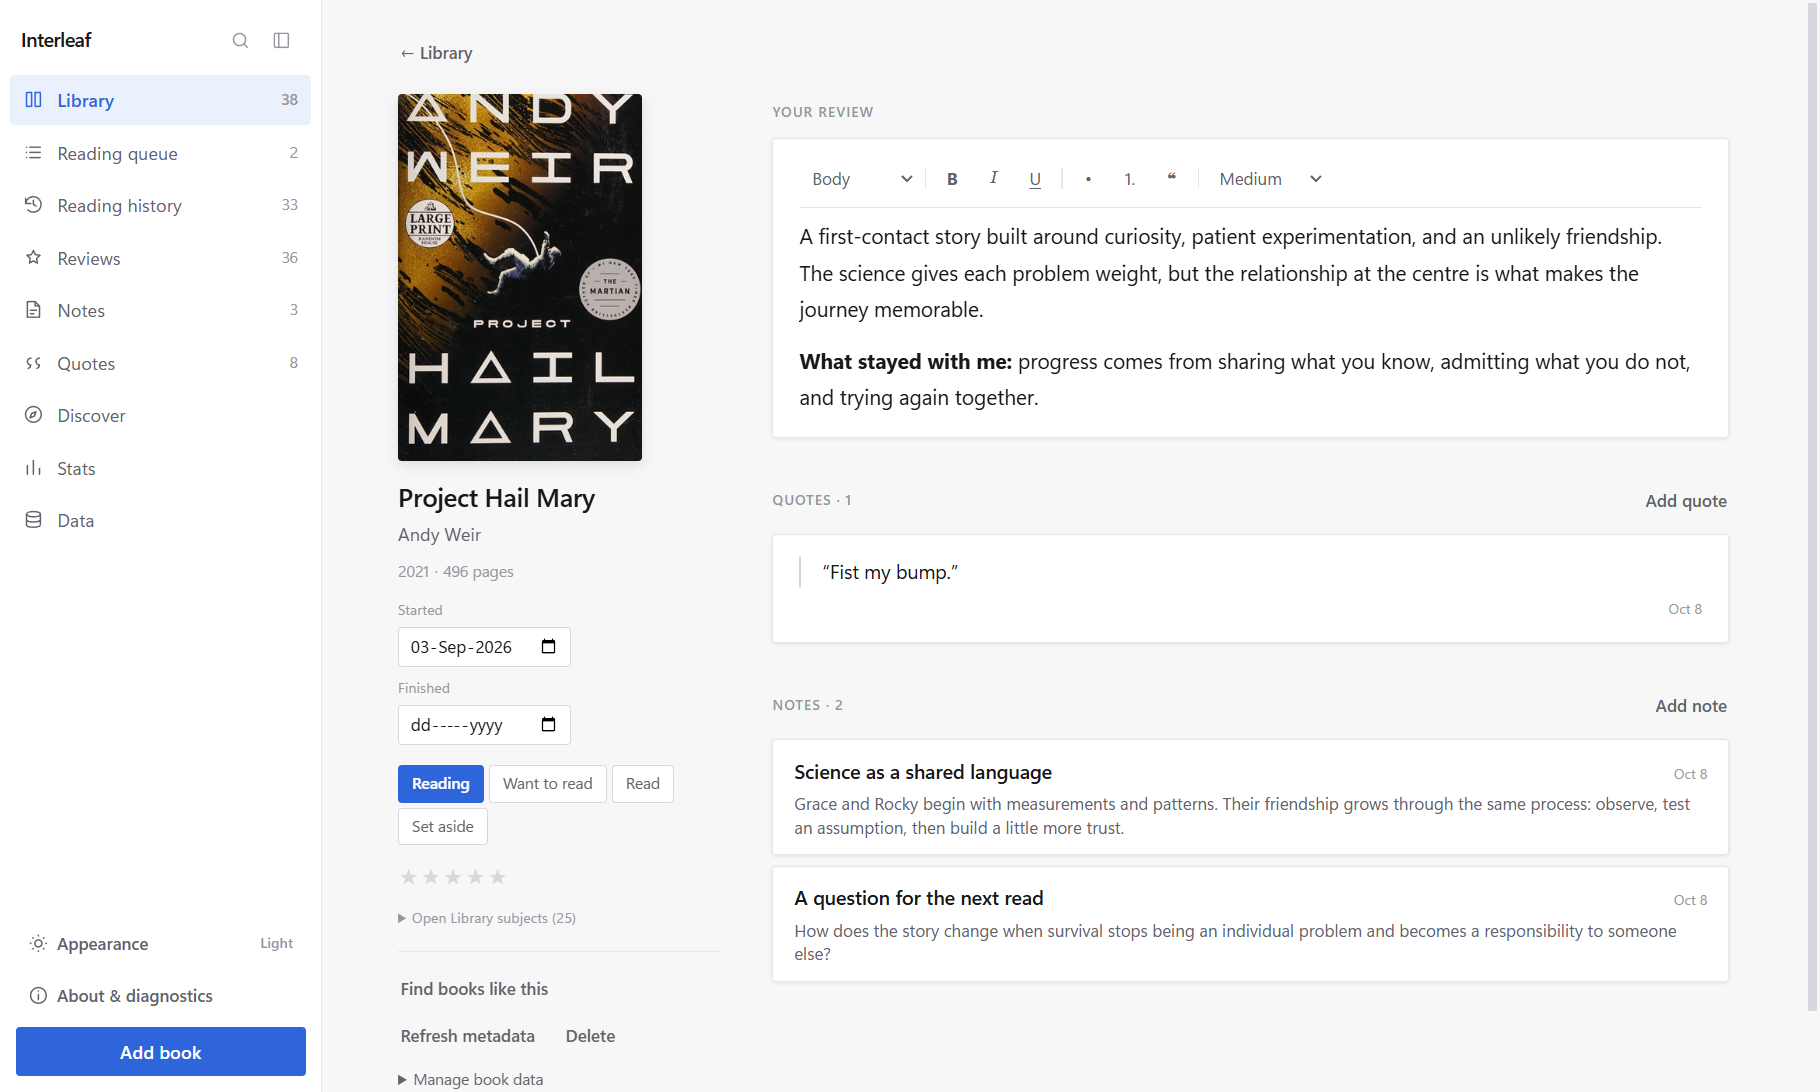
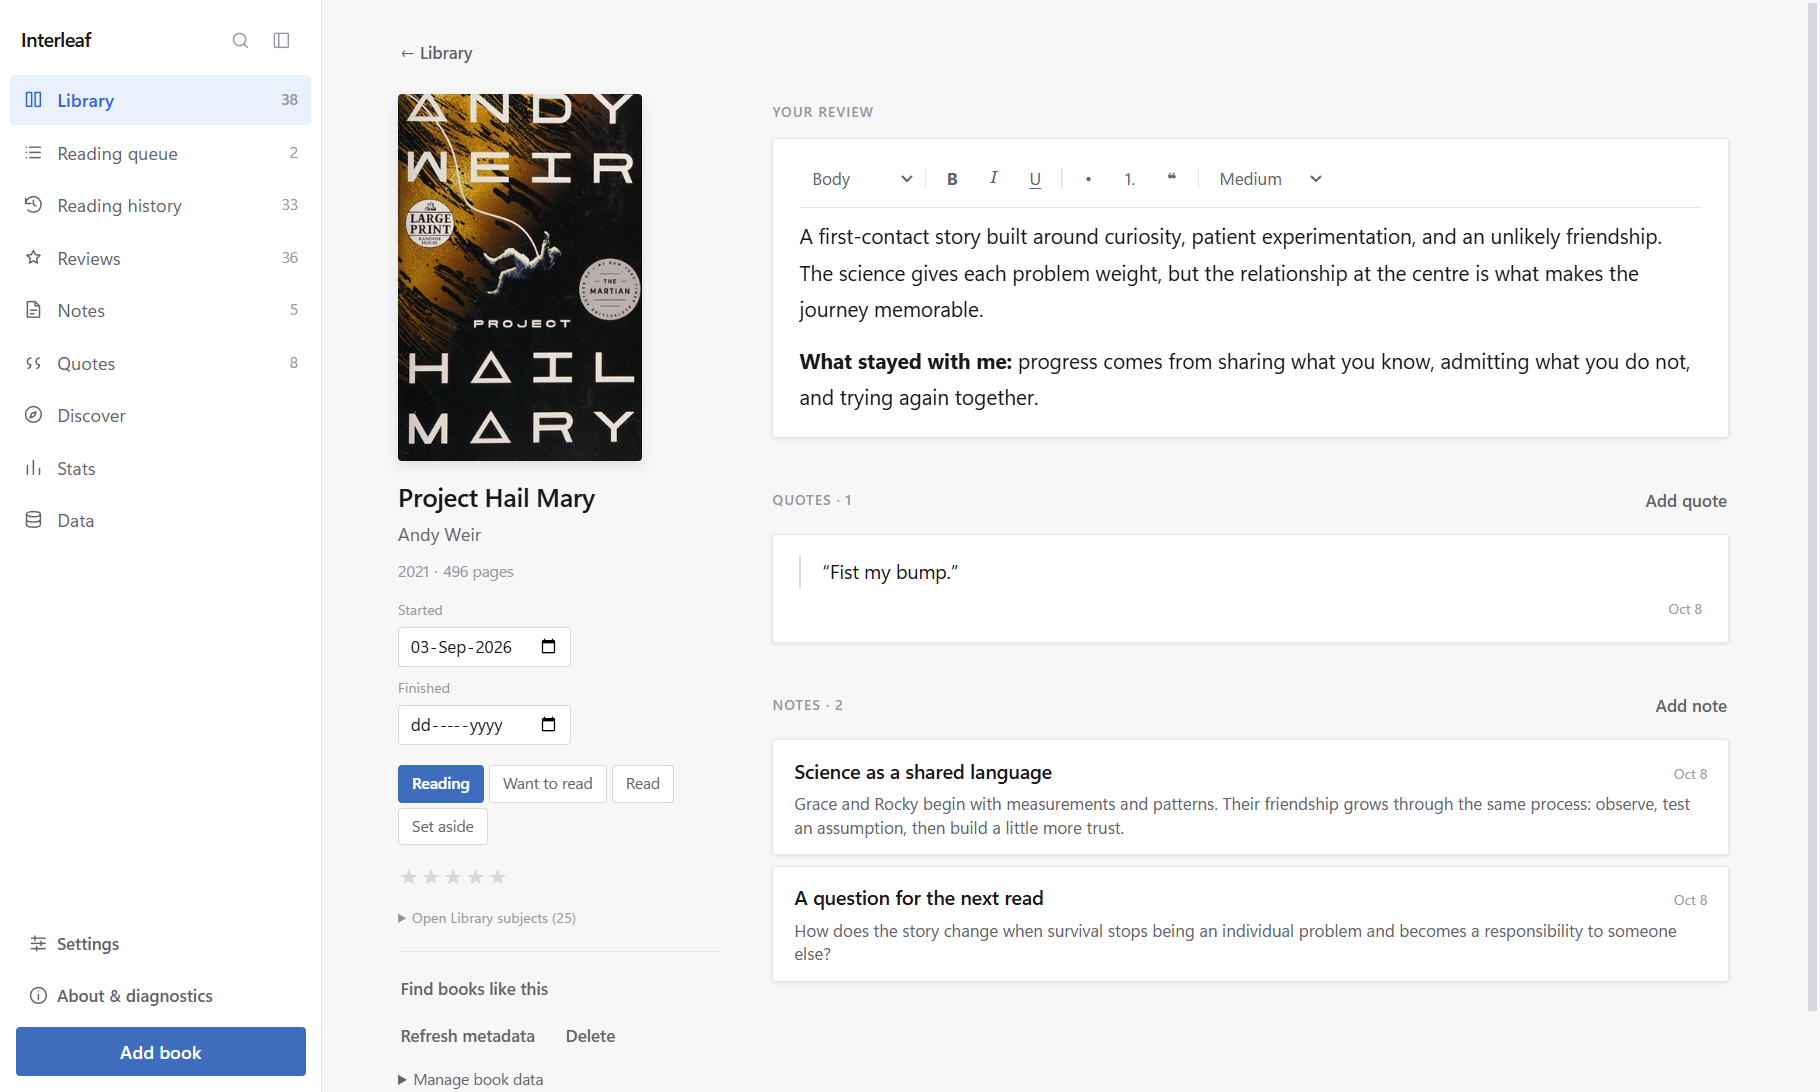
Streamline the README and refresh app screenshots

Changed region(s): [[0.0, 0.9341, 0.1846, 0.9963], [0.2154, 0.685, 0.2769, 0.7473], [0.0308, 0.8407, 0.0923, 0.8718]]

diff --git a/README.md b/README.md
@@ -2,44 +2,35 @@
 
 [![CI](https://github.com/sometabs/interleaf/actions/workflows/ci.yml/badge.svg)](https://github.com/sometabs/interleaf/actions/workflows/ci.yml)
 
-A local-first desktop reading journal. Keep a shelf, arrange what to read next, write reviews and
-notes, collect the passages worth keeping, and get recommendations ranked against your own library.
+A local-first desktop reading journal for Windows and Linux. Arrange your books, keep reviews,
+notes and quotes, and discover what to read next based on your own library.
 
-Your library and writing are stored on your machine. Internet access is needed for Open Library
-searches, metadata refreshes, availability checks and the optional model download. Covers
-are downloaded and cached as needed when books are added or displayed. Recommendation ranking
-itself runs locally.
+## Interleaf in use
 
-<img src="docs/screenshots/01-library.png" width="700" alt="The library showing Reading and Want to read books with their covers">
+**Bookshelf.** Name your shelves, arrange spines and horizontal stacks, and turn a book to show
+its cover. Jump to a shelf by name or highlight a book where it sits.
 
-**Discover** ranks cached Open Library books against your shelf and says which of your books each
-one resembles. Hybrid combines local keyword and meaning-based rankings over the same cached
-candidate pool, with keyword-only matching as the automatic fallback.
+<img src="docs/screenshots/01-shelf.png" width="800" alt="Two named shelves with upright books, a horizontal stack, and the Project Hail Mary cover facing out">
 
-<img src="docs/screenshots/03-discover.png" width="700" alt="Discover with Hybrid ranking, because-you-liked explanations and Open Library subject chips">
+**Reading journal.** See a book's rating, reading dates, review, quotes and notes on one page.
 
-Explore recommendations as a tree. Zoom and pan to see how suggestions relate to one another.
-This view shows the Wuthering Heights branch at 80% zoom.
+<img src="docs/screenshots/02-book.png" width="800" alt="Project Hail Mary with its review, a saved quote, and two reading notes">
 
-<img src="docs/screenshots/04-tree.png" width="700" alt="Hybrid recommendation tree showing Wuthering Heights above three branching paths at 80% zoom">
+**Discover.** Browse recommendations as cards or a similarity tree, or find books like a specific
+title in your library.
 
-The book page puts reading details beside the review, quotes and notes. This example shows a
-reading journal for _Project Hail Mary_.
+<img src="docs/screenshots/04-tree.png" width="800" alt="Discover's recommendation tree branching out from Wuthering Heights">
 
-<img src="docs/screenshots/02-book.png" width="700" alt="Project Hail Mary with a full review, a saved quote and two reading notes">
+## What you can do
 
-Press `Ctrl + K` to search your books, reviews, notes and quotes or run a command.
-
-<img src="docs/screenshots/05-palette.png" width="700" alt="Searching for Hail Mary in the command palette returns Project Hail Mary and its written review">
-
-Stats bring your reading progress, ratings and journal activity together in one local overview.
-
-<img src="docs/screenshots/06-stats.png" width="700" alt="Local reading statistics with all-time totals, yearly progress, library status and ratings">
+- Add books from Open Library or enter them manually. Choose Grid or Shelf in Settings.
+- Order your reading queue, revisit finished books in reading history, and track your progress in Stats.
+- Import Calibre or Kindle highlights with duplicate detection. Kindle clippings need English headers.
+- Press `Ctrl + K` to search your books, reviews, notes and quotes or run a command.
 
 ## Install
 
-To build your own installer, you'll need
-[Node 22.12 or newer](https://nodejs.org) and Git.
+To build from source, install [Node.js 22.12 or newer](https://nodejs.org) and Git.
 
 ```bash
 git clone https://github.com/sometabs/interleaf.git
@@ -47,164 +38,23 @@ cd interleaf
 npm install
 ```
 
-Then build the installer:
+Run `npm run build:win` for a Windows installer or `npm run build:linux` for a Linux AppImage and
+`.deb`. Build on the target operating system and find the result in `dist/`. Run `npm run dev`
+to try the app from source with a separate `Interleaf Dev` library.
 
-```bash
-npm run build:win
-```
+## Your data and offline use
 
-It lands in `dist/`; run it to install the app normally.
+Your library, writing, search, and statistics work offline. Book lookup, metadata refresh, and
+fetching new Discover candidates use Open Library. Interleaf ranks cached candidates locally.
+Optional **Advanced recommendations** adds meaning-based matching and may download a model on
+first use.
 
-**Platforms.** Packaging is configured for x64 Windows and Linux. On Linux, `npm run build:linux`
-produces an AppImage and a `.deb`. Build on the target operating system; macOS packaging is not
-configured.
+**Data → Export library** saves the database, including your shelf layout, along with book covers
+and a readable Markdown copy. **Import** restores the library from the exported database.
+Interleaf also keeps an automatic recovery copy for startup recovery.
 
-To skip the installer and just run the app from source:
-
-```bash
-npm run dev
-```
-
-## What it does
-
-**Your shelf.** Search Open Library by title, author or ISBN, choose the result you want, and keep its
-available cover, edition identity and subjects. Page counts use Open Library's work-level median,
-falling back to the selected edition's count when available. Nothing found, or offline? Add the book
-manually. Each book is marked _want to read_, _reading_, _read_ or _set aside_, and can be rated out
-of five. Books without usable cover art receive a generated clothbound cover instead of a blank box.
-The book page shows reading duration when both start and finish dates are set. This counts elapsed
-calendar days, including breaks, not active reading time.
-
-**Library layout.** Choose **Grid** or **Shelf** in **Settings**. In Shelf, drag books to arrange
-them along or between rows, and use **Add shelf** to make more room.
-
-**Reading queue.** Every _want to read_ book appears in one ordered list. Drag books or use the
-arrow controls to put them in the order you intend to read them.
-
-**Reading history.** Finished books appear newest first, grouped by finish month and year, with
-their ratings and reading duration when available. Books without a finish date are listed last
-under Date unknown. Open a row to view or edit that book.
-
-**Reviews.** Books appear in Reviews as soon as you rate them or write a review. Open a row to
-write or edit the review and change the star rating. Review text saves automatically from either
-the book page or the review editor.
-
-**Notes.** What you thought. Attach them to a book, or write one that belongs to nowhere in
-particular. Each can carry a label, and long ones open as a full page. Search your notes or narrow
-the list by book or label. The book picker only lists books with notes.
-
-**Quotes.** What the book said. They get their own section on each book and their own searchable
-screen, filterable by book or author. The pickers only list books and authors with saved quotes.
-Every quote belongs to a book.
-
-**Search.** One box searches book titles and authors, plus the titles and text of reviews, notes and
-quotes. It does not search the contents of the books themselves.
-
-**Discover.** Recommendations built from your own shelf: Interleaf uses books you finished and rated
-4 or 5 stars to search Open Library using their subjects and author names, then ranks the cached
-pool locally using subjects and descriptions. Finished 3-star books provide a weaker positive
-signal; 1–2-star ratings count against similar candidates. Hybrid combines TF-IDF keyword and
-semantic rankings using reciprocal rank fusion. Turn on **Advanced recommendations** in **Settings**
-to download a roughly 35 MB BGE Small model from Hugging Face after confirmation. Matching then runs locally.
-Until enabled, or if the model fails, keyword-only results are shown automatically. There is no
-ranking-mode selector. Suggestions identify a library book behind
-the match. Your reviews, notes and quotes are not sent to either service.
-
-**Grid or tree.** Choose **Discover layout** in **Settings** to browse cards or a similarity tree.
-Candidates remain cached for offline ranking, and can be dismissed or added to your shelf.
-
-**Books like this one.** Any book on your shelf has a **Find books like this** button, which ranks the
-cached pool against that book alone. You can use those results immediately or run a targeted online
-search for more candidates.
-
-**Stats.** See all-time books and pages read, completed books by month for a selected year, library status,
-ratings, top authors, and review, note and quote totals. Statistics are calculated locally from the
-library you already maintain, including manually added books. Page totals count only read books
-with a known page count. The year selector defaults to the current year and includes earlier years
-with completed books. Choose All time for totals across all read books and completions by year.
-Charts require a finished date; undated read books still count in all-time totals.
-
-**Highlights from Calibre or Kindle.** Read a Calibre annotations export or Kindle My Clippings file
-straight into Interleaf, preserving dates when they can be parsed. Match each source book to your
-library once and Interleaf remembers it; re-importing the same highlights skips duplicates.
-Kindle import currently recognises English clippings headers and skips bookmarks and standalone
-notes. Nothing touches the source library or device.
-
-**Backups and exports.** **Export library** writes the database, referenced covers, and a readable
-Markdown copy to a folder you choose. **Import** verifies that copy and restarts
-Interleaf on the restored library.
-
-Interleaf takes its first automatic backup after a saved library change. Further changes are
-backed up once the 24-hour window ends, or at the next launch if it was closed. Interleaf keeps one
-verified copy of the database and its covers in the `backups` folder beside the database. After a
-successful manual restore, Interleaf refreshes that copy. If the database is missing or damaged at
-startup, Interleaf offers to restore the automatic backup and preserves any damaged database.
-Library exports and automatic backups include your shelf layout. UI preferences, the downloaded
-model, and the embedding cache are stored separately.
-
-**Your data, in plain text.** The Markdown in that folder is yours to read in any editor or keep in
-Git: each book with its status and rating, its review, its notes and its quotes, each dated. It is
-written for reading rather than for restoring, which the database beside it does.
-
-**Data controls.** Delete individual entries from their own screens, remove one book's notes or
-quotes, clear whole categories, reset the recommendation cache, remove the downloaded embedding
-model, and undo **Not for me** dismissals.
-
-## Getting around
-
-Open **Settings** in the sidebar to choose Light, Dark or System. System follows your operating
-system's colour preference. Motion is on by default and can be turned off here.
-
-| key        | action                                     |
-| ---------- | ------------------------------------------ |
-| `Ctrl + K` | Search your library or run common commands |
-| `Ctrl + N` | Add a book                                 |
-| `Esc`      | Back one step                              |
-
-The command palette can open the main screens, add a book or note, and back up your library. It
-shows the keyboard shortcut next to commands that have one.
-
-Reviews and edits to existing notes and quotes save shortly after you stop typing. A new note or
-quote remains a draft until you press **Done**; an empty draft is discarded.
-
-## Where your data lives
-
-- **Windows**: `%APPDATA%\Interleaf\`
-- **Linux**: `$XDG_CONFIG_HOME/Interleaf/`, or `~/.config/Interleaf/` by default
-
-Runs from source and preview builds use a separate `Interleaf Dev` directory under the same
-platform-specific application-data folder, so development cannot modify the installed library.
-
-That folder holds `interleaf.db` and the `covers/` directory, plus the local model and embedding cache
-after Hybrid is enabled. Use **Data → Export library** for a portable library backup. Do not treat
-`covers/` as disposable: manually chosen covers may not be recoverable from Open Library.
-
-## Notes and limits
-
-Book data comes from [Open Library](https://openlibrary.org). When it is slow or unavailable,
-Interleaf distinguishes that from an empty search, allows manual book entry, and keeps cached
-recommendations available. Refresh metadata from a book's page or use **Data → Book metadata**
-to refresh the library. Both use the saved Open Library Work ID to update subjects and descriptions
-and fill missing page counts and publication years, while preserving saved titles, authors,
-edition IDs, ISBNs, and covers.
-
-An online Discover search makes up to eight catalogue queries, spaced to respect Open Library's
-request rate. It can take a minute or longer depending on response times and retries. Hybrid and its
-keyword fallback use the same cached candidate pool, without extra catalogue requests for ranking.
-Meaning-based matching uses an English-focused
-embedding model, so non-English metadata may rank less reliably.
-
-## Development
-
-The test suite runs in two environments. The database, Open Library client, importers and
-recommenders are tested in Node. React components are mounted in jsdom, a simulated browser, so UI
-tests click real controls and type into real editors.
-
-| command             | what it checks                     |
-| ------------------- | ---------------------------------- |
-| `npm test`          | the suite above                    |
-| `npm run lint`      | ESLint, including formatting rules |
-| `npm run typecheck` | `tsc` over main, preload and web   |
+See [Library data and recommendations](docs/library-details.md) for data locations, backup
+timing, and how recommendations work.
 
 ## License
 

diff --git a/docs/library-details.md b/docs/library-details.md
@@ -1,0 +1,61 @@
+# Library data and recommendations
+
+For installation and a tour of Interleaf, see the [README](../README.md).
+
+## Book metadata
+
+When you add an Open Library result, Interleaf saves its displayed title, author, cover, and
+edition identifiers where available. The initial page count uses the work-level median and falls
+back to the selected edition's page count.
+
+Metadata refresh uses the saved Open Library Work ID to update subjects and descriptions and fill
+missing page counts and publication years. You can refresh one book or use **Data → Book
+metadata** for the library.
+
+## Discover
+
+An online Discover search uses subjects and author names from finished books rated four or five
+stars. **Find books like this** uses the selected book alone. A search plans up to eight catalogue
+queries. Interleaf runs catalogue requests one at a time with at least 1.1 seconds between starts
+and can retry once on `429` or `503`.
+
+Ranking uses subjects and descriptions from the local candidate cache. Finished three-star books
+give a weaker positive signal, and one- or two-star ratings can push down similar results. Keyword
+ranking uses TF-IDF and cosine similarity. **Advanced recommendations** combines that ranking with
+local embeddings using reciprocal rank fusion. Discover falls back to keyword ranking if the
+model fails.
+
+The first use of Advanced recommendations may download the roughly 35 MB BGE Small model.
+Interleaf caches embeddings locally. The model is English-focused, so it can rank non-English
+metadata less reliably. Reviews, notes, and quotes stay on your device.
+
+## Where your data lives
+
+- **Windows**: `%APPDATA%\Interleaf\`
+- **Linux**: `$XDG_CONFIG_HOME/Interleaf/` or `~/.config/Interleaf/`
+
+Source and preview builds use a separate `Interleaf Dev` directory. Each profile stores
+`interleaf.db` and its `covers/` directory.
+
+**Data → Export library** saves a SQLite snapshot, referenced covers, and a readable Markdown copy
+in `interleaf-backup/`. Select the exported folder in **Data → Import**. Interleaf verifies the
+database, upgrades a staged copy if needed, and restarts with the restored library. Shelf names,
+positions, stacks, face-out covers, and hidden books are part of the database. UI preferences,
+the embedding model, and the embedding cache are stored separately.
+
+Interleaf takes the first automatic backup after a saved change. Further changes refresh it once
+the 24-hour window ends, or at the next launch if the app was closed at that point. Interleaf
+keeps one verified snapshot in the profile's `backups/` folder and refreshes it after a manual
+import. If the database is missing or damaged at startup, it offers to restore that snapshot.
+
+## Reading and writing
+
+- Press `Ctrl + N` to add a book or `Esc` to go back.
+- Reviews and edits to saved notes and quotes autosave. Press **Done** to save a new note or quote.
+- Reading duration counts calendar days between your start and finish dates. Stats include page
+  counts for finished books that have one. Monthly charts use finish dates.
+
+## Development
+
+Run `npm test` for the test suite, `npm run lint` for lint checks, and `npm run typecheck` for
+TypeScript checks.
